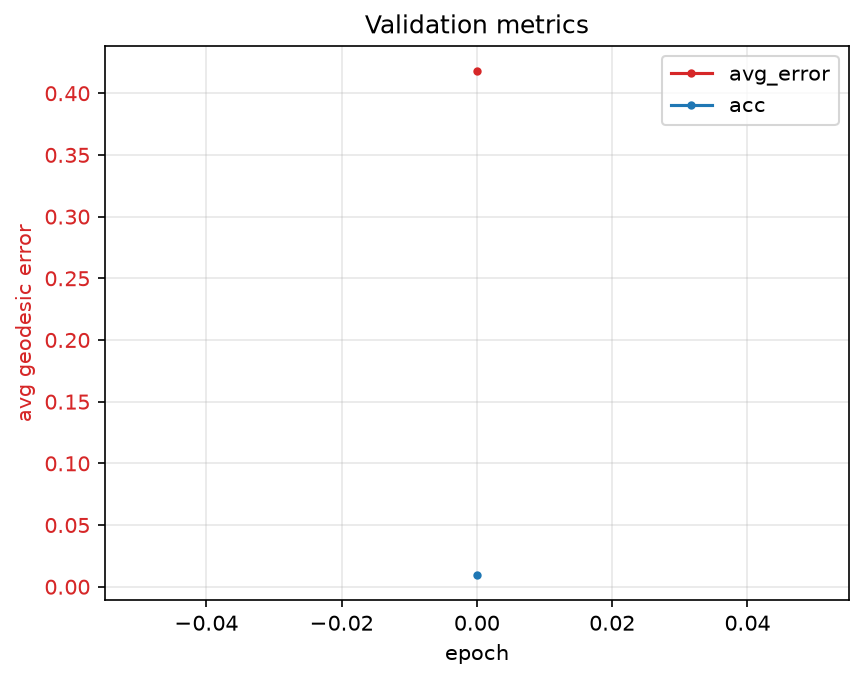
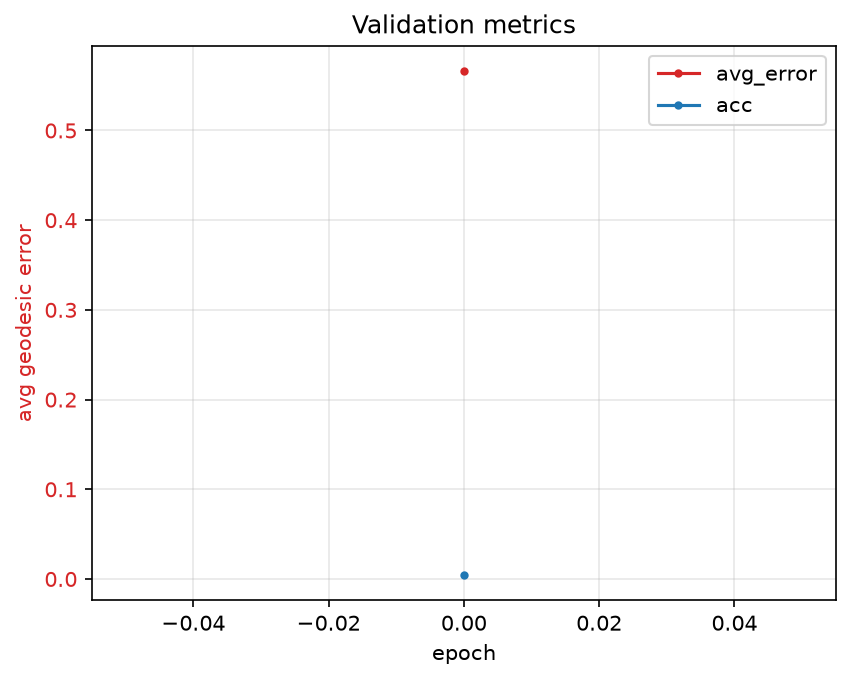
Fixed GCN to build local patches

diff --git a/networks/gcn_feature_extractor.py b/networks/gcn_feature_extractor.py
@@ -1,15 +1,21 @@
-"""Learnable per-point GCN feature extractor (BendingGraphs Graphite, reimplemented).
+"""Learnable per-point GCN feature extractor (BendingGraphs Graphite, patch variant).
 
 Replaces the frozen .npy features with a small graph net trained end-to-end with the
-matcher. It runs on the SPARSE FPS points of one shape: node coordinates plus the sparse
-geodesic submatrix, which also defines the graph (a geodesic kNN). Output is per-point
-(1, n, out_dim) -- the same shape the denoiser consumes for F, so it drops into
+matcher. It produces one descriptor per SPARSE (FPS) point, but computes each from a LOCAL
+PATCH of the FULL-resolution mesh around that point (BendingGraphs' patch mode), so the
+feature reflects fine local surface geometry rather than the coarse FPS-neighbourhood:
+
+    for each FPS point p:
+        patch = the `patch_size` full-mesh vertices nearest p by geodesic distance
+        local graph = geodesic-kNN within the patch
+        run TAGConv layers on the patch, then max-pool -> one (out_dim) descriptor for p
+
+Output is (1, n, out_dim) -- the shape the denoiser consumes for F, dropping into
 _sparse_inputs in place of the loaded feat.
 
 TAGConv is the topology-adaptive polynomial GCN of BendingGraphs (src/models/tag_conv.py):
 x' = sum_{k=0..K} A_hat^k x Theta_k with a symmetric-normalised adjacency. Reimplemented
-here in dense torch (one graph per forward, so batching is unnecessary) to avoid the
-torch_geometric / torch_scatter dependency.
+here in dense torch (batched over the n patches) to avoid the torch_geometric dependency.
 """
 import torch
 import torch.nn as nn
@@ -21,8 +27,8 @@ from utils.registry import NETWORK_REGISTRY
 class TAGConv(nn.Module):
     """Topology-adaptive graph conv: sum_{k=0..K} (A_hat^k x) Theta_k.
 
-    A_hat is a precomputed dense normalised adjacency (n, n); a separate linear per hop
-    plays the role of Theta_k, with a single bias on the k=0 term.
+    Batched: x is (..., p, in_ch) and A_hat a dense normalised adjacency (..., p, p); a
+    separate linear per hop plays the role of Theta_k, with a single bias on the k=0 term.
     """
     def __init__(self, in_ch: int, out_ch: int, K: int):
         super().__init__()
@@ -34,31 +40,34 @@ class TAGConv(nn.Module):
         out = self.lins[0](x)
         xk = x
         for k in range(1, self.K + 1):
-            xk = A_hat @ xk                       # propagate one more hop
+            xk = A_hat @ xk                       # propagate one more hop (batched matmul)
             out = out + self.lins[k](xk)
         return out
 
 
 @NETWORK_REGISTRY.register()
 class GCNFeatureExtractor(nn.Module):
-    """Sparse per-point GCN descriptor. forward(points, dist) -> (1, n, out_dim).
+    """Per-FPS-point GCN descriptor from local full-mesh patches.
+
+    forward(verts, dist, idx) -> (1, n, out_dim), where verts (N, 3) and dist (N, N) are the
+    FULL-mesh coords and geodesic matrix, and idx (n,) are the full-mesh indices of the FPS
+    points. Patches are gathered on dist's device (typically CPU) so the full (N, N) matrix
+    never has to move to the GPU; only the small per-patch tensors do.
 
     Args:
         out_dim: per-point feature dim (BendingGraphs FEATURE_SIZE, default 64).
-        node_in: input node features. 'xyz' = mean-centred, scale-normalised coords
-            (extrinsic, like Graphite minus normals); 'anchor' = geodesic distances to the
-            first n_anchors points (dist[:, :a]), a fully intrinsic input matching the
-            denoiser's no-raw-xyz design.
-        hidden: hidden widths between node_in and out_dim (widths mirror Graphite 16->32).
+        node_in: patch node features. 'xyz' = patch coords relative to the centre point,
+            scale-normalised by patch radius (local, translation-invariant); 'anchor' =
+            geodesic distance from each patch vertex to the centre (intrinsic radial coord).
+        hidden: hidden widths between node_in and out_dim (mirror Graphite 16->32).
         hops: per-layer TAGConv hop counts K; len(hops) == len(hidden) + 1.
-        knn: neighbours per point when building the geodesic graph.
-        n_anchors: anchor count for node_in='anchor'.
-        sigma: edge-weight bandwidth exp(-d^2/sigma^2); None -> per-graph median neighbour
-            distance (scale-adaptive).
+        patch_size: full-mesh vertices per patch (the local receptive field).
+        knn: neighbours per vertex when building the within-patch geodesic graph.
+        sigma: edge-weight bandwidth exp(-d^2/sigma^2); None -> median neighbour distance.
     """
     def __init__(self, out_dim: int = 64, node_in: str = 'xyz',
                  hidden: tuple = (16, 32), hops: tuple = (1, 2, 3),
-                 knn: int = 8, n_anchors: int = 16,
+                 patch_size: int = 64, knn: int = 8,
                  sigma: float | None = None, eps: float = 1e-8):
         super().__init__()
         if node_in not in ('xyz', 'anchor'):
@@ -66,49 +75,66 @@ class GCNFeatureExtractor(nn.Module):
         if len(hops) != len(hidden) + 1:
             raise ValueError('len(hops) must equal len(hidden) + 1')
         self.node_in = node_in
+        self.patch_size = patch_size
         self.knn = knn
-        self.n_anchors = n_anchors
         self.sigma = sigma
         self.eps = eps
 
-        in_ch = 3 if node_in == 'xyz' else n_anchors
+        in_ch = 3 if node_in == 'xyz' else 1
         widths = [in_ch, *hidden, out_dim]
         self.convs = nn.ModuleList(
             TAGConv(widths[i], widths[i + 1], hops[i]) for i in range(len(hops)))
-        self.bns = nn.ModuleList(nn.BatchNorm1d(w) for w in widths[1:])
+        # LayerNorm over the feature dim (not BatchNorm): the extractor runs on one shape at
+        # a time, so per-shape batch stats would normalise each shape differently and wreck
+        # cross-shape feature alignment. LayerNorm is per-point, train/eval-identical, and
+        # matches the denoiser's normalisation.
+        self.norms = nn.ModuleList(nn.LayerNorm(w) for w in widths[1:])
 
-    def _adjacency(self, dist: torch.Tensor) -> torch.Tensor:
-        """Symmetric-normalised geodesic-kNN adjacency A_hat (n, n) from dist (n, n)."""
-        n = dist.shape[0]
-        k = min(self.knn, n - 1)
+    def _adjacency(self, D: torch.Tensor) -> torch.Tensor:
+        """Symmetric-normalised geodesic-kNN adjacency from batched patch geodesics.
+
+        D: (n, p, p) -> A_hat (n, p, p)."""
+        p = D.shape[-1]
+        k = min(self.knn, p - 1)
         # k smallest geodesics per row, dropping the self column (distance 0 on diagonal)
-        nn_d, nn_idx = torch.topk(dist, k + 1, dim=-1, largest=False)
-        nn_d, nn_idx = nn_d[:, 1:], nn_idx[:, 1:]
+        nn_d, nn_idx = torch.topk(D, k + 1, dim=-1, largest=False)
+        nn_d, nn_idx = nn_d[..., 1:], nn_idx[..., 1:]
         sigma = self.sigma if self.sigma is not None else nn_d.median().clamp_min(self.eps)
-        w = torch.exp(-(nn_d ** 2) / (sigma ** 2 + self.eps))       # (n, k)
+        w = torch.exp(-(nn_d ** 2) / (sigma ** 2 + self.eps))       # (n, p, k)
 
-        A = torch.zeros(n, n, device=dist.device, dtype=dist.dtype)
-        rows = torch.arange(n, device=dist.device).unsqueeze(1).expand(-1, k)
-        A[rows, nn_idx] = w
-        A = torch.maximum(A, A.t())                                 # symmetrise
-        A = A + torch.eye(n, device=dist.device, dtype=dist.dtype)  # self-loops
-        d_inv_sqrt = A.sum(-1).clamp_min(self.eps).pow(-0.5)
-        return d_inv_sqrt.unsqueeze(1) * A * d_inv_sqrt.unsqueeze(0)
+        A = torch.zeros_like(D).scatter_(-1, nn_idx, w)
+        A = torch.maximum(A, A.transpose(-1, -2))                   # symmetrise
+        A = A + torch.eye(p, device=D.device, dtype=D.dtype)        # self-loops
+        d_inv_sqrt = A.sum(-1).clamp_min(self.eps).pow(-0.5)        # (n, p)
+        return d_inv_sqrt.unsqueeze(-1) * A * d_inv_sqrt.unsqueeze(-2)
 
-    def _node_features(self, points: torch.Tensor, dist: torch.Tensor) -> torch.Tensor:
+    def _node_features(self, patch_verts, center_verts, D_patch):
+        """patch_verts (n,p,3), center_verts (n,3), D_patch (n,p,p) -> (n,p,in_ch)."""
         if self.node_in == 'xyz':
-            x = points - points.mean(0, keepdim=True)
-            return x / x.norm(dim=-1).max().clamp_min(self.eps)
-        a = min(self.n_anchors, dist.shape[0])
-        return dist[:, :a]
+            rel = patch_verts - center_verts.unsqueeze(1)           # centre-relative coords
+            scale = rel.norm(dim=-1).amax(-1, keepdim=True).clamp_min(self.eps)  # (n,1)
+            return rel / scale.unsqueeze(-1)
+        # 'anchor': geodesic to the centre (patch column 0 is the centre point itself)
+        radial = D_patch[..., :1]                                   # (n,p,1)
+        return radial / radial.amax(-2, keepdim=True).clamp_min(self.eps)
 
-    def forward(self, points: torch.Tensor, dist: torch.Tensor) -> torch.Tensor:
-        """points: (n, 3) sparse coords; dist: (n, n) sparse geodesic. Returns (1, n, out_dim)."""
-        A_hat = self._adjacency(dist)
-        x = self._node_features(points, dist)
+    def forward(self, verts: torch.Tensor, dist: torch.Tensor, idx: torch.Tensor) -> torch.Tensor:
+        """verts (N,3), dist (N,N) full mesh; idx (n,) FPS vertex indices. Returns (1,n,out_dim)."""
+        dev = self.convs[0].lins[0].weight.device
+        idx = idx.to(dist.device).long()
+        p = min(self.patch_size, dist.shape[0])
+        # patch = p nearest full-mesh vertices to each FPS centre (column 0 is the centre)
+        _, patch_idx = torch.topk(dist[idx], p, dim=-1, largest=False)          # (n, p)
+        # gather on dist's device (keeps the full (N,N) off the GPU), then move small patches
+        D_patch = dist[patch_idx.unsqueeze(-1), patch_idx.unsqueeze(-2)].to(dev).float()
+        patch_verts = verts[patch_idx].to(dev).float()                         # (n, p, 3)
+        center_verts = verts[idx].to(dev).float()                              # (n, 3)
+
+        A_hat = self._adjacency(D_patch)
+        x = self._node_features(patch_verts, center_verts, D_patch)
         last = len(self.convs) - 1
-        for i, (conv, bn) in enumerate(zip(self.convs, self.bns)):
-            x = bn(conv(x, A_hat))
+        for i, (conv, norm) in enumerate(zip(self.convs, self.norms)):
+            x = norm(conv(x, A_hat))
             if i < last:
                 x = F.relu(x)
-        return x.unsqueeze(0)
+        return x.amax(dim=1).unsqueeze(0)                # max-pool patch -> (1, n, out_dim)

diff --git a/pretrain_extractor.py b/pretrain_extractor.py
@@ -29,15 +29,19 @@ def contrastive_loss(fx, fy, tau):
     return loss, acc
 
 
+def _features(ext, shape):
+    """Run the patch extractor on one shape: full verts/dist + FPS idx -> (n, out_dim)."""
+    return ext(shape['verts'], shape['dist'], shape['sparse']['idx'])[0]
+
+
 @torch.no_grad()
 def evaluate(ext, dataset, device, tau, limit=None):
     ext.eval()
     accs = []
     for i in range(len(dataset) if limit is None else min(limit, len(dataset))):
-        xs = dataset[i]['first']['sparse']
-        ys = dataset[i]['second']['sparse']
-        fx = ext(xs['verts'].to(device).float(), xs['dist'].to(device).float())[0]
-        fy = ext(ys['verts'].to(device).float(), ys['dist'].to(device).float())[0]
+        pair = dataset[i]
+        fx = _features(ext, pair['first'])
+        fy = _features(ext, pair['second'])
         _, acc = contrastive_loss(fx, fy, tau)
         accs.append(acc.item())
     ext.train()
@@ -54,6 +58,7 @@ def main():
     p.add_argument('--node_in', default=None, help="override extractor node_in (xyz|anchor)")
     p.add_argument('--device', default=None)
     p.add_argument('--eval_limit', type=int, default=40, help='val pairs per eval')
+    p.add_argument('--max_steps', type=int, default=None, help='cap train steps/epoch (smoke)')
     p.add_argument('--out', default='extractor_faust.pth')
     args = p.parse_args()
 
@@ -75,13 +80,14 @@ def main():
           f'{len(train_set)} train / {len(val_set)} val pairs')
 
     for epoch in range(args.epochs):
-        order = torch.randperm(len(train_set))
+        order = torch.randperm(len(train_set)).tolist()
+        if args.max_steps is not None:
+            order = order[:args.max_steps]
         run_loss = run_acc = 0.0
-        for step, idx in enumerate(order.tolist()):
-            xs = train_set[idx]['first']['sparse']
-            ys = train_set[idx]['second']['sparse']
-            fx = ext(xs['verts'].to(device).float(), xs['dist'].to(device).float())[0]
-            fy = ext(ys['verts'].to(device).float(), ys['dist'].to(device).float())[0]
+        for step, idx in enumerate(order):
+            pair = train_set[idx]
+            fx = _features(ext, pair['first'])
+            fy = _features(ext, pair['second'])
             loss, acc = contrastive_loss(fx, fy, args.tau)
 
             optim.zero_grad()

diff --git a/models/matrix_diffusion_model.py b/models/matrix_diffusion_model.py
@@ -67,13 +67,14 @@ class MatrixDiffusionModel(BaseModel):
         Returns F_x, F_y (B,n,d_f); D_x, D_y (B,n,n); P0 (B,n_y,n_x) or None.
         P0 is None under independent-FPS eval (no bijective sparse GT); sampling paths
         ignore it, and the training/diagnostic paths that need it always have gt_perm."""
-        xs, ys = data['first']['sparse'], data['second']['sparse']
+        dx, dy = data['first'], data['second']
+        xs, ys = dx['sparse'], dy['sparse']
         b = lambda z: (z.unsqueeze(0) if z.dim() == 2 else z).to(self.device).float()
         D_x, D_y = b(xs['dist']), b(ys['dist'])
         if 'extractor' in self.networks:                            # learnable GCN features
-            ext = self.networks['extractor']
-            F_x = ext(xs['verts'].to(self.device).float(), D_x[0])
-            F_y = ext(ys['verts'].to(self.device).float(), D_y[0])
+            ext = self.networks['extractor']                        # local full-mesh patches
+            F_x = ext(dx['verts'], dx['dist'], xs['idx'])           # per FPS point (1, n, d)
+            F_y = ext(dy['verts'], dy['dist'], ys['idx'])
         else:                                                       # frozen .npy features
             F_x, F_y = b(xs['feat']), b(ys['feat'])
         if self.ablate_features:                                    # P_t-only diagnostic